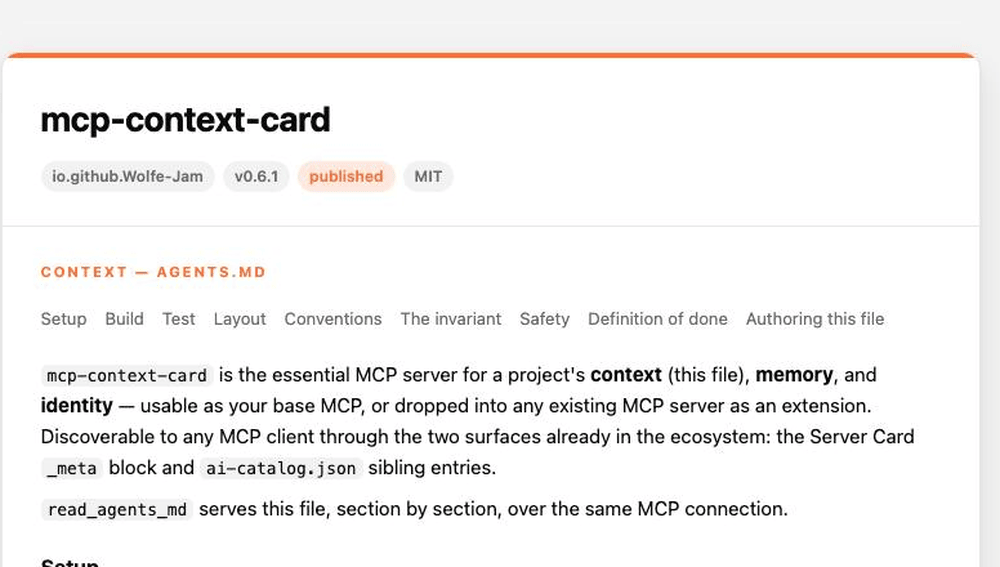
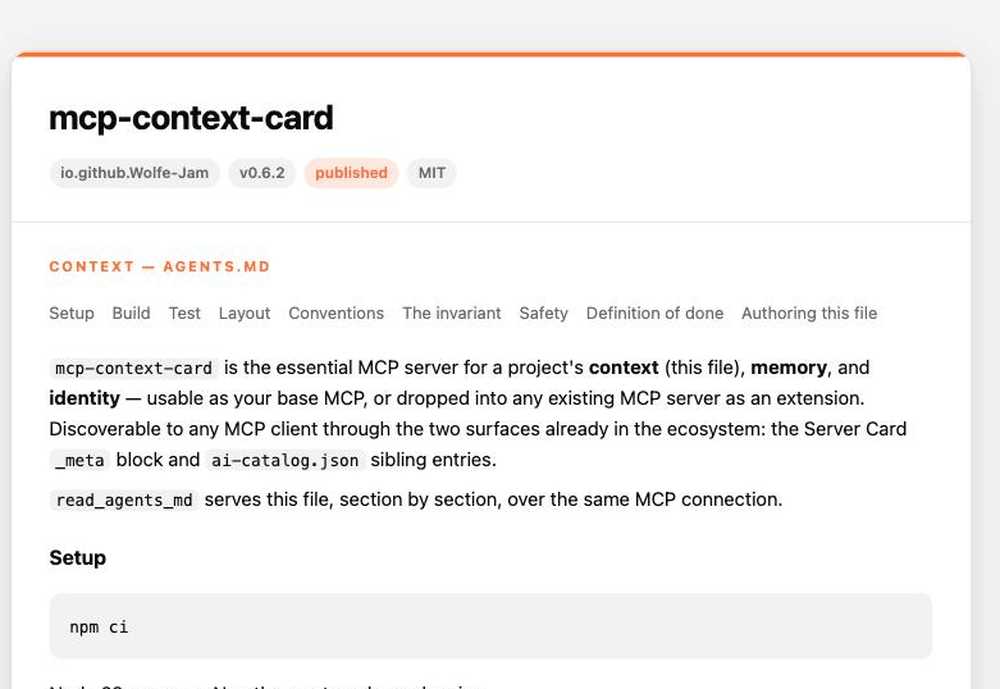
release: 0.6.2 (#43)
Tool-description quality + anti-drift. No functional change — the server
does exactly what 0.6.1 did.

Bundles PRs #38-#42:
- glama.json pins the listing name (the stale faf-trinity display name)
- every tool parameter carries a real description (Glama scored remember
  2/5 on params) + a guard test
- resources/templates/list answers [] instead of -32601
- version:check + faf-cli check --strict + faf:check + faf:nudge added
  to CI, all on committed content, no dependency added
- project.fafm header corrected to "curated snapshot"

Version moved across every spot (version:check green). The 3 version-pill
PNGs re-shot at v0.6.2. 104 tests, faf:check + card:check + catalog:check
green, project.faf Trophy, vendor-neutral sweep clean, dry-run 292.5 kB.

Claude-Session: https://claude.ai/code/session_01Aij9ReMwQeQTVSnYUZ4Qdt

diff --git a/demo.ts b/demo.ts
@@ -30,7 +30,7 @@ async function connect(): Promise<Client> {
     command: process.execPath,
     args: ["--import", "tsx", join(here, "src/server.ts")],
   });
-  const client = new Client({ name: "demo-host", version: "0.6.1" }, { capabilities: {} });
+  const client = new Client({ name: "demo-host", version: "0.6.2" }, { capabilities: {} });
   await client.connect(transport);
   return client;
 }
@@ -103,7 +103,7 @@ console.log(`\n${line}\n4. DISCOVERY — list_context_sources(), then the same s
   await new Promise((r) => setTimeout(r, 50));
   const { port } = srv.address() as { port: number };
 
-  const httpClient = new Client({ name: "demo-host", version: "0.6.1" }, { capabilities: {} });
+  const httpClient = new Client({ name: "demo-host", version: "0.6.2" }, { capabilities: {} });
   await httpClient.connect(new StreamableHTTPClientTransport(new URL(`http://127.0.0.1:${port}/mcp`)));
   const tools = (await httpClient.listTools()).tools.map((t) => t.name);
   console.log(`· POST http://127.0.0.1:${port}/mcp → ${tools.length} tools: ${tools.join(", ")}`);

diff --git a/docs/card-dark.html b/docs/card-dark.html
@@ -78,7 +78,7 @@ section:last-child{border-bottom:0}
 <main class="card">
   <div class="top">
     <h1>mcp-context-card</h1>
-    <div class="pills"><span class="pill">io.github.Wolfe-Jam</span><span class="pill">v0.6.1</span><span class="pill accent">published</span><span class="pill">MIT</span></div>
+    <div class="pills"><span class="pill">io.github.Wolfe-Jam</span><span class="pill">v0.6.2</span><span class="pill accent">published</span><span class="pill">MIT</span></div>
   </div>
   <section>
     <p class="label">Context — AGENTS.md</p>

diff --git a/docs/card-light.html b/docs/card-light.html
@@ -78,7 +78,7 @@ section:last-child{border-bottom:0}
 <main class="card">
   <div class="top">
     <h1>mcp-context-card</h1>
-    <div class="pills"><span class="pill">io.github.Wolfe-Jam</span><span class="pill">v0.6.1</span><span class="pill accent">published</span><span class="pill">MIT</span></div>
+    <div class="pills"><span class="pill">io.github.Wolfe-Jam</span><span class="pill">v0.6.2</span><span class="pill accent">published</span><span class="pill">MIT</span></div>
   </div>
   <section>
     <p class="label">Context — AGENTS.md</p>

diff --git a/docs/card.html b/docs/card.html
@@ -78,7 +78,7 @@ section:last-child{border-bottom:0}
 <main class="card">
   <div class="top">
     <h1>mcp-context-card</h1>
-    <div class="pills"><span class="pill">io.github.Wolfe-Jam</span><span class="pill">v0.6.1</span><span class="pill accent">published</span><span class="pill">MIT</span></div>
+    <div class="pills"><span class="pill">io.github.Wolfe-Jam</span><span class="pill">v0.6.2</span><span class="pill accent">published</span><span class="pill">MIT</span></div>
   </div>
   <section>
     <p class="label">Context — AGENTS.md</p>

diff --git a/docs/index.html b/docs/index.html
@@ -78,7 +78,7 @@ section:last-child{border-bottom:0}
 <main class="card">
   <div class="top">
     <h1>mcp-context-card</h1>
-    <div class="pills"><span class="pill">io.github.Wolfe-Jam</span><span class="pill">v0.6.1</span><span class="pill accent">published</span><span class="pill">MIT</span></div>
+    <div class="pills"><span class="pill">io.github.Wolfe-Jam</span><span class="pill">v0.6.2</span><span class="pill accent">published</span><span class="pill">MIT</span></div>
   </div>
   <section>
     <p class="label">Context — AGENTS.md</p>

diff --git a/src/constants.ts b/src/constants.ts
@@ -1,5 +1,5 @@
 /** Server identity constants, in their own module so any file can import
  *  them without pulling in the whole server. */
 export const NAME = "mcp-context-card";
-export const VERSION = "0.6.1";
+export const VERSION = "0.6.2";
 export const SERVER_CARD_URI = "mcp-context-card://server-card";

diff --git a/CHANGELOG.md b/CHANGELOG.md
@@ -2,7 +2,12 @@
 
 All notable changes to this project. Adheres to [Semantic Versioning](https://semver.org).
 
-## Unreleased
+## 0.6.2
+
+Tool-description quality and anti-drift. Nothing here changes what the
+server does — it makes the tool surface read better to a fresh client
+(and to Glama's automated scorer), silences a spurious `-32601`, and
+adds CI gates so the release-hygiene mistakes of 0.5.x/0.6.x can't recur.
 
 - **Every tool parameter now carries a real description.** Glama's
   automated tool scoring flagged `remember` at 2/5 on parameters —

diff --git a/examples/README.md b/examples/README.md
@@ -27,7 +27,7 @@ The three discovery routes need no MCP handshake:
 $ curl -s localhost:3000/.well-known/mcp/server-card
 {
   "name": "mcp-context-card",
-  "version": "0.6.1",
+  "version": "0.6.2",
   "_meta": {
     "io.github.Wolfe-Jam.mcp-context-card/context":  { "source": "AGENTS.md",          "mediaType": "text/markdown" },
     "io.github.Wolfe-Jam.mcp-context-card/memory":   { "source": "project.fafm",       "mediaType": "application/vnd.fafm+yaml", "iana": "…", "note": "no de-facto standard for agent memory yet — this is one instantiation" },

diff --git a/docs/MECHANISMS.md b/docs/MECHANISMS.md
@@ -29,7 +29,7 @@ Both return:
 ```jsonc
 {
   "name": "mcp-context-card",
-  "version": "0.6.1",
+  "version": "0.6.2",
   "_meta": {
     "io.github.Wolfe-Jam.mcp-context-card/context": {
       "source": "AGENTS.md",
